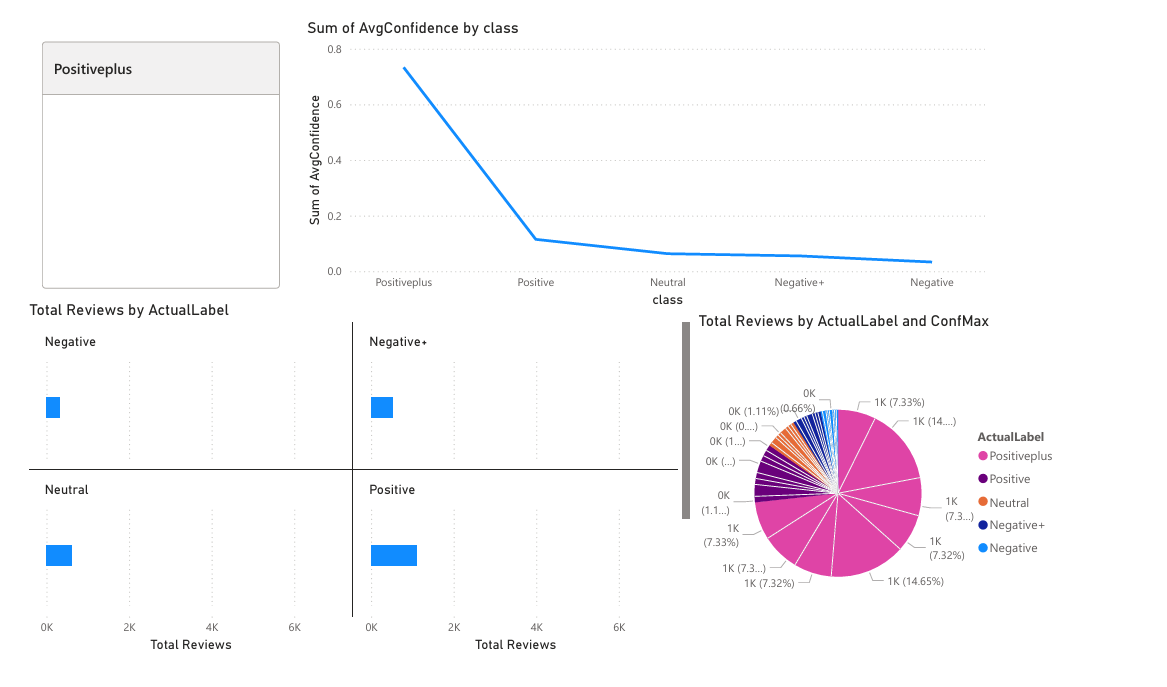
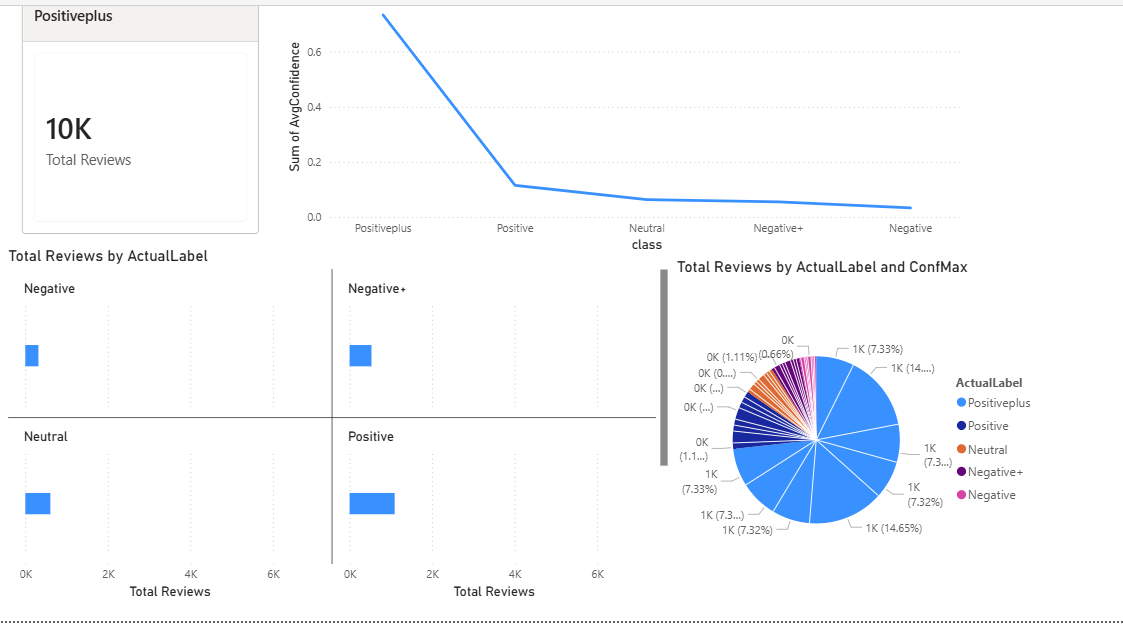
Add files via upload

diff --git a/templates/dashboard.html b/templates/dashboard.html
@@ -27,8 +27,8 @@
         <div class="summary-grid">
 
             <div class="summary-card">
-                <h4>Total Reviews</h4>
-                <h2>10,000</h2>
+                <h2>{{ total_reviews }}</h2>
+                <p class="note">*ข้อมูลจาก Amazon Review Dataset</p>
             </div>
 
             <div class="summary-card positive">
@@ -52,12 +52,84 @@
         <div class="box">
             <h2>📊 ภาพรวมข้อมูล (Data Overview)</h2>
             <img src="{{ url_for('static', filename='img/OverReviews.png') }}" class="dashboard-img">
+             <p class="desc fade-in">
+
+        กราฟนี้แสดง <span class="highlight">ภาพรวมของข้อมูลรีวิวทั้งหมด</span> 
+        โดยมีจำนวนรีวิวประมาณ <b>{{ total_reviews }} รายการ</b> 
+        ซึ่งถือเป็นข้อมูลขนาดใหญ่ที่สามารถนำมาใช้วิเคราะห์แนวโน้มได้อย่างมีประสิทธิภาพ
+
+        <br><br>
+
+        <b>1. กราฟเส้น (Line Chart)</b><br>
+        แสดงค่าความมั่นใจเฉลี่ยของโมเดลในแต่ละประเภทความคิดเห็น 
+        พบว่า <span class="highlight">Positive+ มีค่าความมั่นใจสูงที่สุด</span> 
+        และลดลงตามลำดับไปยัง Neutral และ Negative 
+        ซึ่งสะท้อนว่าโมเดลสามารถแยกความคิดเห็นเชิงบวกได้แม่นยำมากกว่า
+
+        <br><br>
+
+        <b>2. กราฟแท่ง (Bar Chart - Total Reviews by ActualLabel)</b><br>
+        แสดงจำนวนรีวิวในแต่ละประเภท โดยพบว่า 
+        <span class="highlight">ความคิดเห็นเชิงบวก (Positive) มีจำนวนมากที่สุด</span> 
+        รองลงมาคือ Neutral และ Negative 
+        แสดงให้เห็นว่าผู้ใช้งานส่วนใหญ่มีความพึงพอใจต่อสินค้า
+
+        <br><br>
+
+        <b>3. กราฟวงกลม (Pie Chart)</b><br>
+        แสดงสัดส่วนของข้อมูลในแต่ละกลุ่มอย่างชัดเจน 
+        โดย <span class="highlight">กลุ่ม Positive มีสัดส่วนมากกว่า 70%</span> 
+        ซึ่งยืนยันแนวโน้มเชิงบวกของข้อมูลโดยรวม
+
+        <br><br>
+
+        <b>4. กราฟจุด (Scatter Plot)</b><br>
+        แสดงการกระจายของค่าความมั่นใจ (Confidence) 
+        โดยพบว่าค่าของกลุ่ม Positive มีความสม่ำเสมอมากกว่า 
+        ขณะที่กลุ่มอื่นมีความกระจายมากกว่า ซึ่งอาจเกิดจากความกำกวมของข้อความ
+
+        <br><br>
+
+         ดังนั้น กราฟนี้ช่วยให้สามารถ 
+        <span class="highlight">มองเห็นทั้งแนวโน้มข้อมูลและประสิทธิภาพของโมเดลได้ในภาพเดียว</span> 
+        ทำให้การวิเคราะห์และการตัดสินใจมีความแม่นยำมากขึ้น
+
+    </p>
         </div>
 
         <!-- 🤖 รูปที่ 2 -->
         <div class="box">
             <h2>🤖 ผลลัพธ์โมเดล (Model Performance)</h2>
             <img src="{{ url_for('static', filename='img/Scoring.png') }}" class="dashboard-img">
+            <p class="desc fade-in">
+
+        กราฟนี้แสดง <span class="highlight">ประสิทธิภาพของโมเดล Machine Learning</span> 
+        ในการจำแนกความคิดเห็นของผู้ใช้งาน
+
+        <br><br>
+
+        <b>1. ค่า Confidence</b><br>
+        โมเดลมีค่าความมั่นใจสูงในกลุ่ม Positive+ 
+        แสดงว่าโมเดลสามารถทำนายความคิดเห็นเชิงบวกได้อย่างแม่นยำ
+
+        <br><br>
+
+        <b>2. แนวโน้มค่าความมั่นใจ</b><br>
+        ค่าความมั่นใจลดลงในกลุ่ม Neutral และ Negative 
+        ซึ่งแสดงให้เห็นว่าโมเดลยังมีข้อจำกัดในการแยกความคิดเห็นที่ไม่ชัดเจน
+
+        <br><br>
+
+        <b>3. ความแม่นยำโดยรวม</b><br>
+        โมเดลมีแนวโน้มทำงานได้ดีในข้อมูลส่วนใหญ่ 
+        โดยเฉพาะความคิดเห็นเชิงบวก ซึ่งเป็นข้อมูลหลักของระบบ
+
+        <br><br>
+
+        สรุป โมเดลมีประสิทธิภาพในระดับดี 
+        และสามารถนำไปใช้งานวิเคราะห์ความคิดเห็นของผู้ใช้งานได้จริง
+
+    </p>
         </div>
 
     </div>

diff --git a/static/style.css b/static/style.css
@@ -308,3 +308,32 @@ button {
     color: #ccc;
     margin: 8px 0;
 }
+/* animation ตอนเลื่อน */
+.fade-in {
+    opacity: 0;
+    transform: translateY(15px);
+    animation: fadeInUp 1s ease forwards;
+}
+
+@keyframes fadeInUp {
+    to {
+        opacity: 1;
+        transform: translateY(0);
+    }
+}
+
+/* เน้นคำสำคัญ */
+.highlight {
+    color: #00e0ff;
+    font-weight: bold;
+}
+
+/* hover นิดเดียวพอให้ดูมีชีวิต */
+
+.desc b {
+    color: #fff;
+}
+
+.desc {
+    line-height: 1.8;
+}
